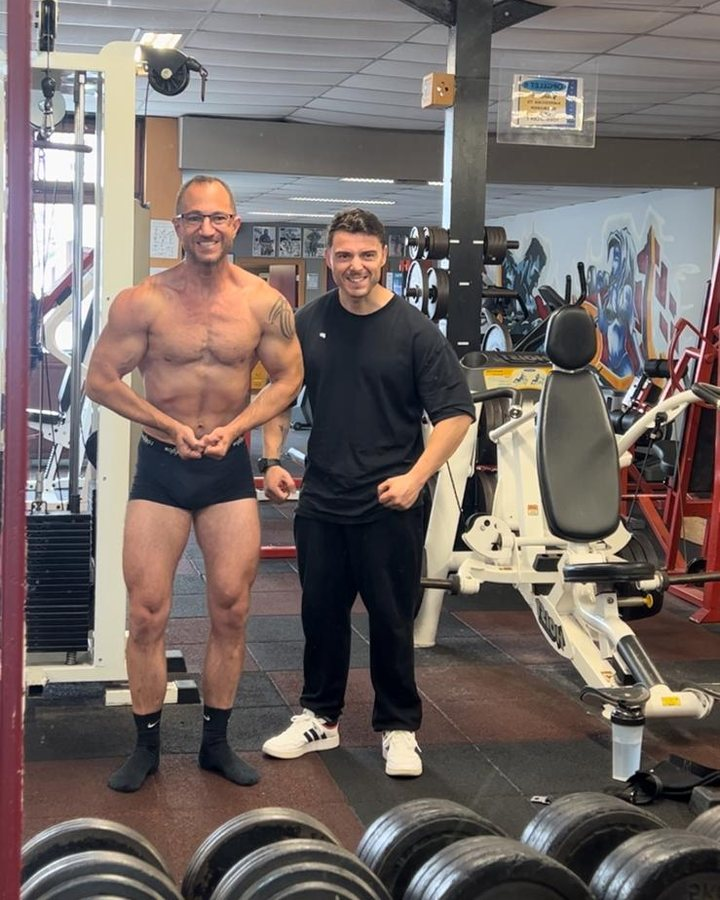
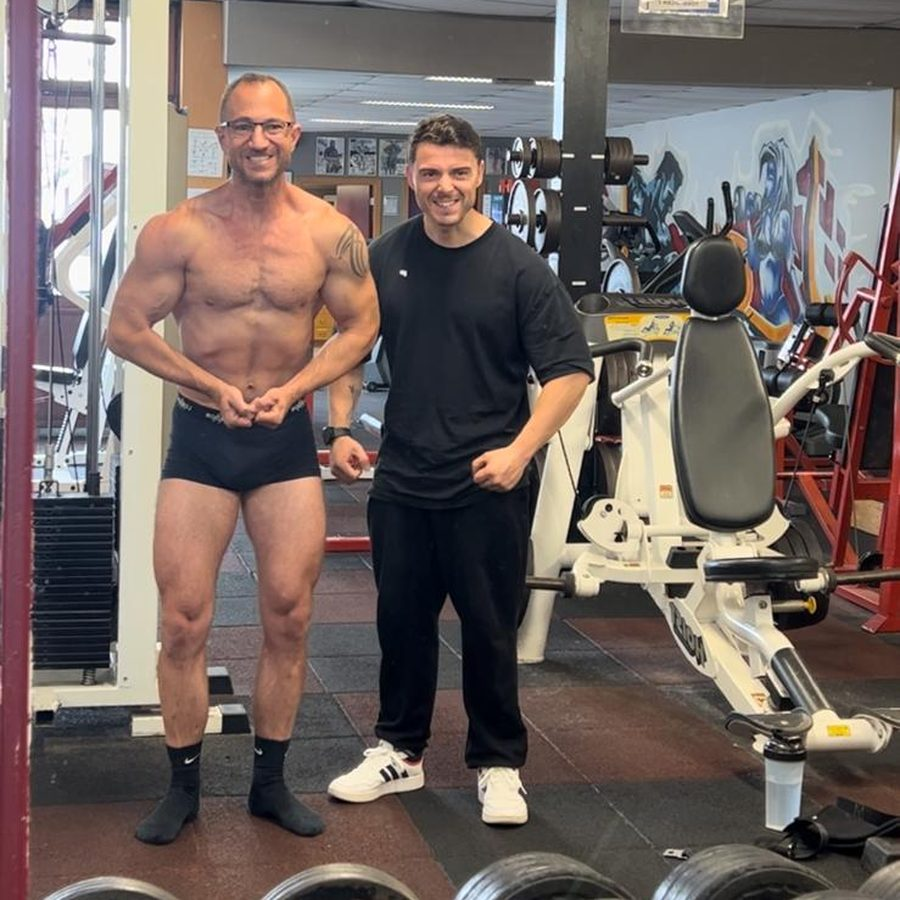
Support section: staggered levels with faded photos, titles only (#7)
Claude-Session: https://claude.ai/code/session_01QTRQVLds9doDDJuKCCsy6N

diff --git a/bodybuilding/index.html b/bodybuilding/index.html
@@ -23,6 +23,20 @@ a{color:#F3502F}a:hover{color:#ff7a5a}
 details summary::-webkit-details-marker{display:none}
 @media (max-width:760px){.cred-sep{display:none}.cred-row{flex-direction:column;gap:6px}}
 details[open] .faq-plus{transform:rotate(45deg)}
+.lvls{margin-top:24px}
+.lvl{position:relative;display:flex;align-items:center}
+.lvl+.lvl{margin-top:-170px}
+.lvl-r{flex-direction:row-reverse}
+.lvl-img::after{content:"";position:absolute;inset:-1px;pointer-events:none;background:linear-gradient(to right,#0F0F0F 0,rgba(15,15,15,0) 26%,rgba(15,15,15,0) 74%,#0F0F0F 100%),linear-gradient(to bottom,#0F0F0F 0,rgba(15,15,15,0) 22%,rgba(15,15,15,0) 68%,#0F0F0F 100%)}
+.lvl-img{position:relative;width:min(49%,600px);aspect-ratio:1/1;flex:0 0 auto}
+.lvl-img img{position:absolute;inset:0;width:100%;height:100%;object-fit:cover;display:block;filter:contrast(1.05) saturate(.9);
+}
+.lvl-t{position:relative;z-index:2;margin:0;font-family:'Anton',sans-serif;font-weight:400;font-size:clamp(40px,5vw,72px);line-height:.95;text-transform:uppercase;color:#F4F4F4}
+.lvl-r .lvl-t{margin-right:-60px;text-align:right}
+.lvl-l .lvl-t{margin-left:-60px}
+.lvl-dim img{filter:brightness(.78) contrast(1.05) saturate(.9)}
+@media (max-width:760px){.lvl,.lvl-r{flex-direction:column}.lvl-r{align-items:flex-end}.lvl-l{align-items:flex-start}.lvl+.lvl{margin-top:-10px}.lvl-img{width:84%}.lvl-r .lvl-t,.lvl-l .lvl-t{margin:-56px 0 0}.lvl-t{font-size:36px}}
+
 </style>
 <link rel="canonical" href="https://mbcphysique.com/bodybuilding/">
 <meta property="og:url" content="https://mbcphysique.com/bodybuilding/">
@@ -118,30 +132,26 @@ details[open] .faq-plus{transform:rotate(45deg)}
 </div>
 </section>
 
-<section id="support" aria-labelledby="support-h" style="background: #0F0F0F; border-bottom: 1px solid #242424">
+<section id="support" aria-labelledby="support-h" style="background: #0F0F0F; overflow: hidden">
 <div style="max-width: 1280px; margin: 0 auto; padding: clamp(80px, 10vw, 140px) 24px">
 <h2 id="support-h" style="margin: 0; max-width: 900px; font-family: 'Anton', sans-serif; font-weight: 400; font-size: clamp(44px, 6vw, 84px); line-height: 0.95; text-transform: uppercase">All the way to <span class="metal-text">stage.</span></h2>
-<p style="margin: 28px 0 0; max-width: 620px; color: #BDBDBD; font-size: 19px">Some parts of a prep happen away from the check-ins. This is how I support you through them.</p>
-<div style="display: grid; grid-template-columns: repeat(auto-fit, minmax(min(100%, 300px), 1fr)); gap: 56px 40px; margin-top: 64px">
-<div style="min-width: 0">
-<div style="aspect-ratio: 4 / 5; position: relative; overflow: hidden; background: #1F1F1F"><img src="../assets/backstage.jpg" alt="Mário Bastos backstage with his athlete after a natural bodybuilding show" loading="lazy" style="position: absolute; inset: 0; width: 100%; height: 100%; object-fit: cover; display: block"><div class="metal-bg" aria-hidden="true" style="position: absolute; left: 0; bottom: 0; width: 38%; height: 4px"></div></div>
-<h3 style="margin: 24px 0 0; font-family: 'Anton', sans-serif; font-weight: 400; font-size: clamp(30px, 3vw, 40px); line-height: 1; text-transform: uppercase">Backstage support</h3>
-<p style="margin: 14px 0 0; color: #BDBDBD">At shows in the Netherlands and nearby, I'm backstage with you on the day, from the pump-up to the moment you walk on stage. For shows further away, I support you remotely through the whole day.</p>
+<div class="lvls">
+<div class="lvl lvl-r">
+<div class="lvl-img"><img src="../assets/backstage.jpg" alt="Mário Bastos backstage with his athlete at a natural bodybuilding show" loading="lazy"></div>
+<h3 class="lvl-t">Backstage support</h3>
 </div>
-<div style="min-width: 0">
-<div style="aspect-ratio: 4 / 5; position: relative; overflow: hidden; background: #1F1F1F"><img src="../assets/posing.jpg" alt="Posing coaching session for a natural bodybuilding competitor" loading="lazy" style="position: absolute; inset: 0; width: 100%; height: 100%; object-fit: cover; display: block"><div class="metal-bg" aria-hidden="true" style="position: absolute; left: 0; bottom: 0; width: 38%; height: 4px"></div></div>
-<h3 style="margin: 24px 0 0; font-family: 'Anton', sans-serif; font-weight: 400; font-size: clamp(30px, 3vw, 40px); line-height: 1; text-transform: uppercase">Posing coaching</h3>
-<p style="margin: 14px 0 0; color: #BDBDBD">Your mandatory poses are built for your category and refined throughout your prep, so you walk on stage comfortable showing everything you've built.</p>
+<div class="lvl lvl-l">
+<div class="lvl-img"><img src="../assets/posing.jpg" alt="Posing coaching for a natural bodybuilding competitor" loading="lazy"></div>
+<h3 class="lvl-t">Posing coaching</h3>
 </div>
-<div style="min-width: 0">
-<div style="aspect-ratio: 4 / 5; position: relative; overflow: hidden; background: #1F1F1F"><img src="../assets/assessment.jpg" alt="Physique assessment with a natural bodybuilding athlete in the gym" loading="lazy" style="position: absolute; inset: 0; width: 100%; height: 100%; object-fit: cover; display: block"><div class="metal-bg" aria-hidden="true" style="position: absolute; left: 0; bottom: 0; width: 38%; height: 4px"></div></div>
-<h3 style="margin: 24px 0 0; font-family: 'Anton', sans-serif; font-weight: 400; font-size: clamp(30px, 3vw, 40px); line-height: 1; text-transform: uppercase">Physique assessment</h3>
-<p style="margin: 14px 0 0; color: #BDBDBD">Your physique is assessed throughout the season. We compare how it develops over months, which tells us what to bring up next and when you're ready for stage.</p>
+<div class="lvl lvl-r">
+<div class="lvl-img"><img src="../assets/assessment.jpg" alt="Physique assessment with a natural bodybuilding athlete" loading="lazy"></div>
+<h3 class="lvl-t">Physique assessment</h3>
 </div>
+<div class="lvl lvl-l lvl-dim">
+<div class="lvl-img"><img src="../assets/federation.jpg" alt="Mário Bastos reviewing an athlete's preparation, WNBF Pro card on the wall" loading="lazy"></div>
+<h3 class="lvl-t">Federation guidance</h3>
 </div>
-<div style="margin-top: 64px; padding: 36px 0 0; border-top: 1px solid #2E2E2E; display: flex; flex-wrap: wrap; gap: 16px 56px; align-items: baseline">
-<h3 style="margin: 0; flex: 0 0 auto; font-family: 'Anton', sans-serif; font-weight: 400; font-size: clamp(30px, 3vw, 40px); line-height: 1; text-transform: uppercase">Federation <span class="metal-text">guidance</span></h3>
-<p style="margin: 0; flex: 1 1 420px; color: #BDBDBD">Every federation has its own rules on categories, drug testing and registration. You'll know what applies to your show before you sign up, so nothing on show day comes as a surprise.</p>
 </div>
 </div>
 </section>
